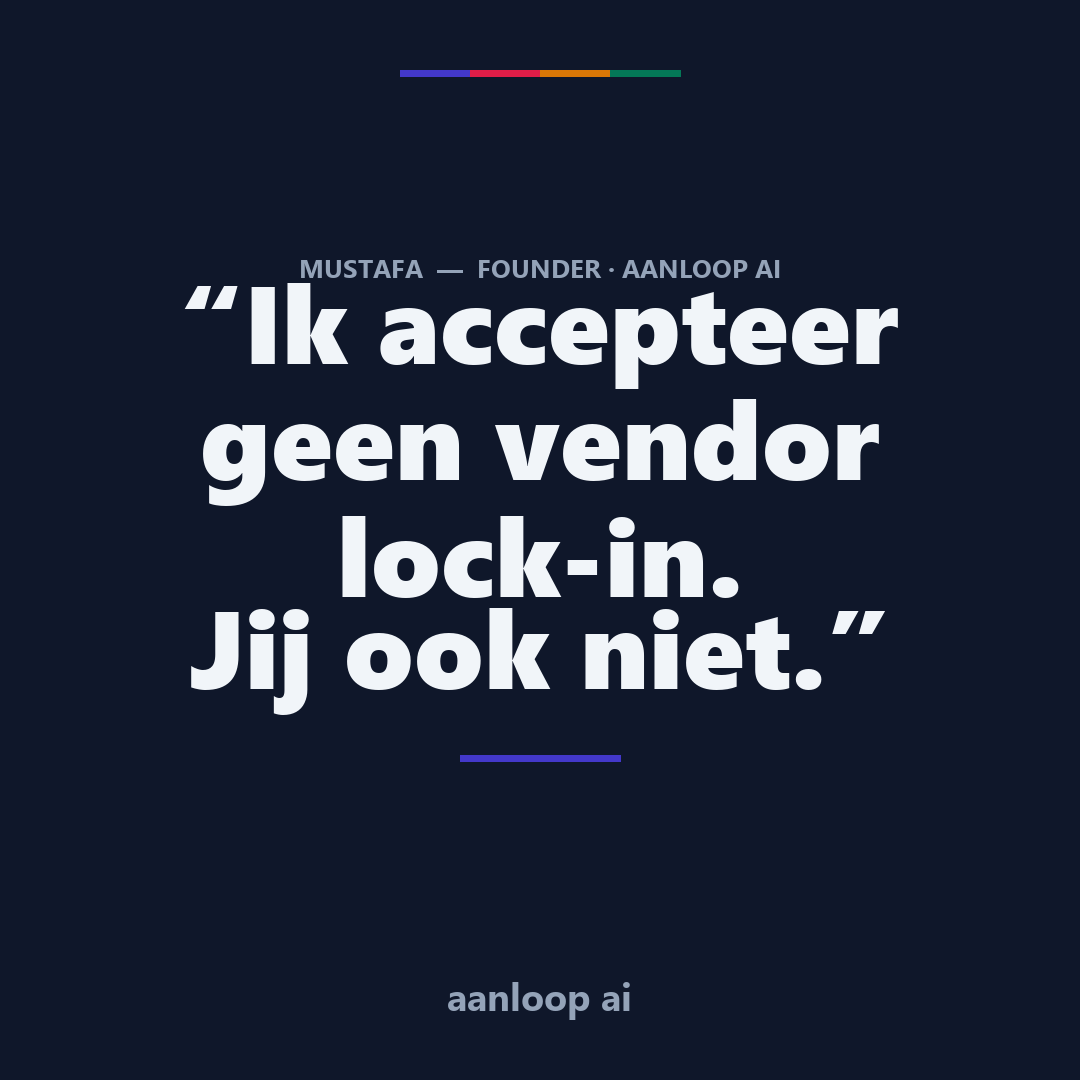
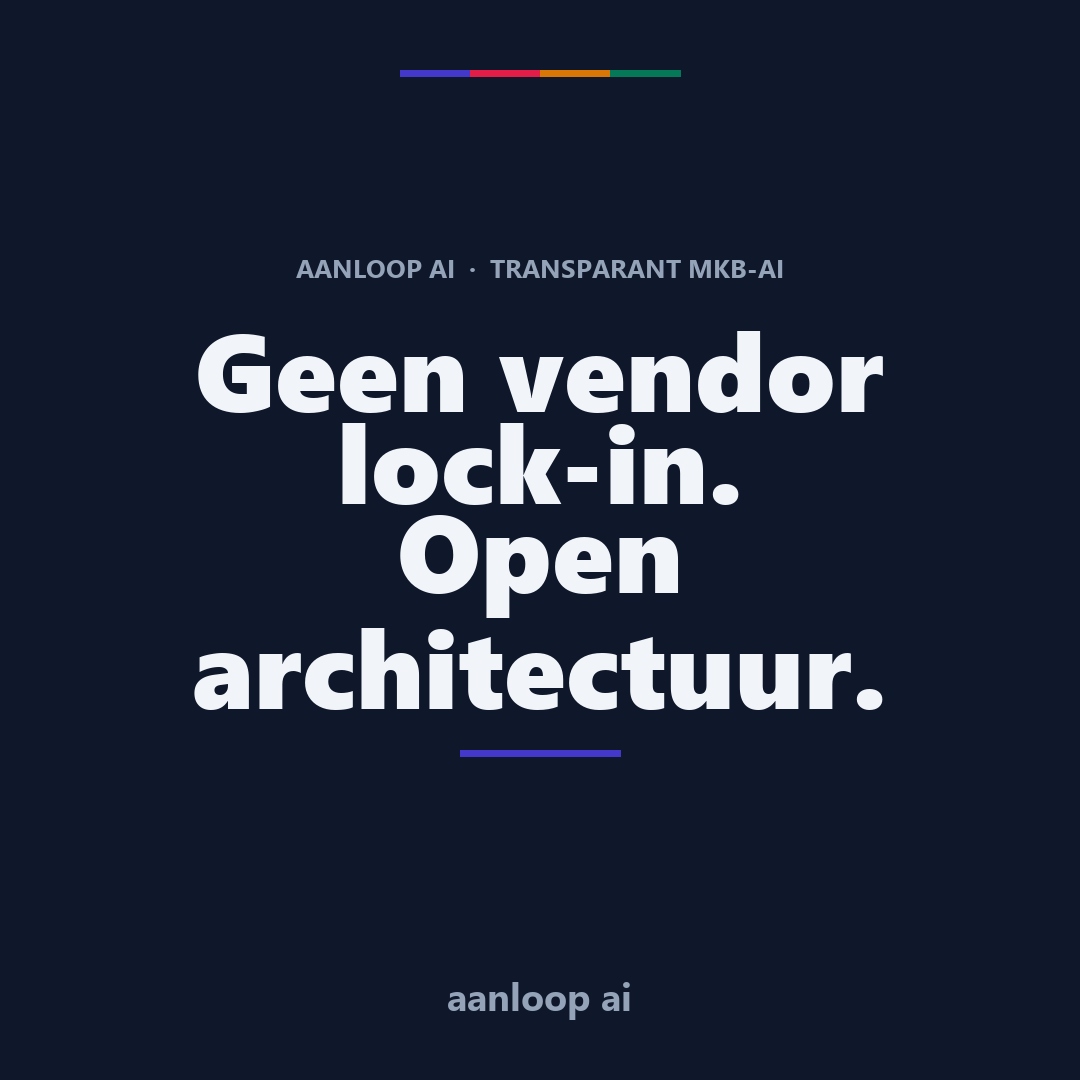
feat(social): post-08 image brand-voice re-render (drop Mustafa label + ik-quote)
Image post-08-founder-pov.png hertekend: label MUSTAFA-FOUNDER vervangen
door AANLOOP AI · TRANSPARANT MKB-AI, quote Ik-accepteer-geen-vendor-lock-in
vervangen door brand-statement Geen vendor lock-in / Open architectuur.

Filename ongewijzigd zodat schedule + Meta Graph image_url werken zonder
JSON update. Cloudflare Pages rebuild deploy automatisch na push.

Changed region(s): [[0.1528, 0.2444, 0.8556, 0.7028]]

diff --git a/scripts/render-ig-posts.py b/scripts/render-ig-posts.py
@@ -308,20 +308,20 @@ def post_07_horeca_case() -> None:
 
 
 def post_08_founder_pov() -> None:
-    """Wave 2.3 — Founder POV (Mustafa stelling, no portrait yet)."""
+    """Wave 2.3 — Brand stance (company-voice, geen persoonlijke attribution)."""
     img = Image.new("RGB", (SIZE, SIZE), NAVY)
     d = ImageDraw.Draw(img)
     draw_brand_signature_top(d)
 
     f_label = font(FONT_REG, 26)
-    draw_centered(d, "MUSTAFA  —  FOUNDER · AANLOOP AI", 260, f_label, PEARL_DIM)
+    draw_centered(d, "AANLOOP AI  ·  TRANSPARANT MKB-AI", 260, f_label, PEARL_DIM)
 
     f_quote = font(FONT_BLACK, 110)
     quote_lines = [
-        "“Ik accepteer",
-        "geen vendor",
+        "Geen vendor",
         "lock-in.",
-        "Jij ook niet.”",
+        "Open",
+        "architectuur.",
     ]
     _, h_line = text_size(d, quote_lines[0], f_quote)
     line_spacing = 10
